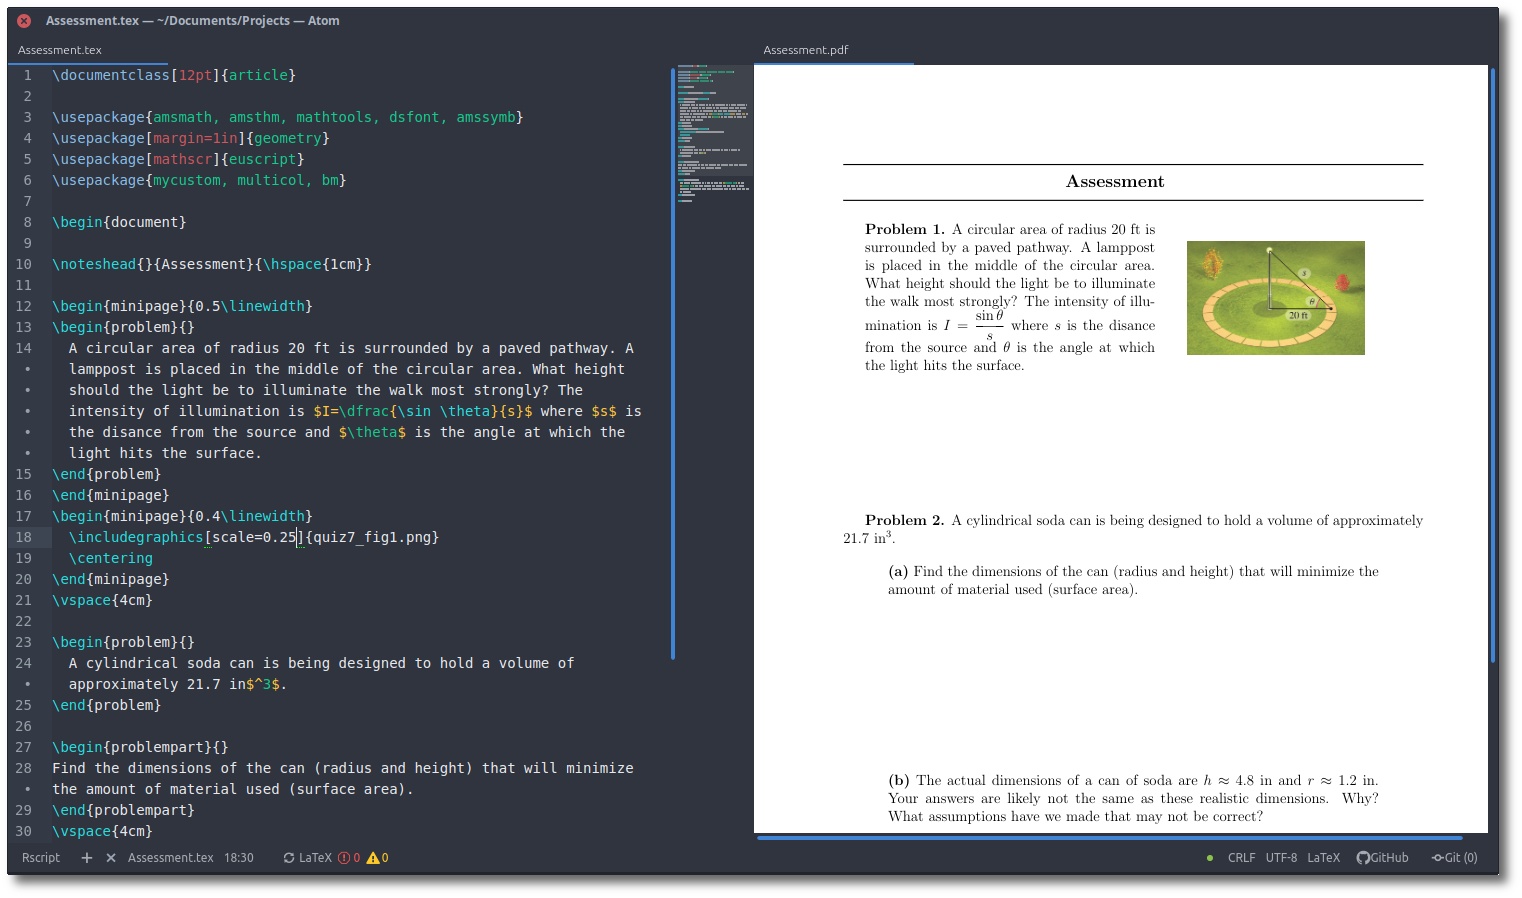
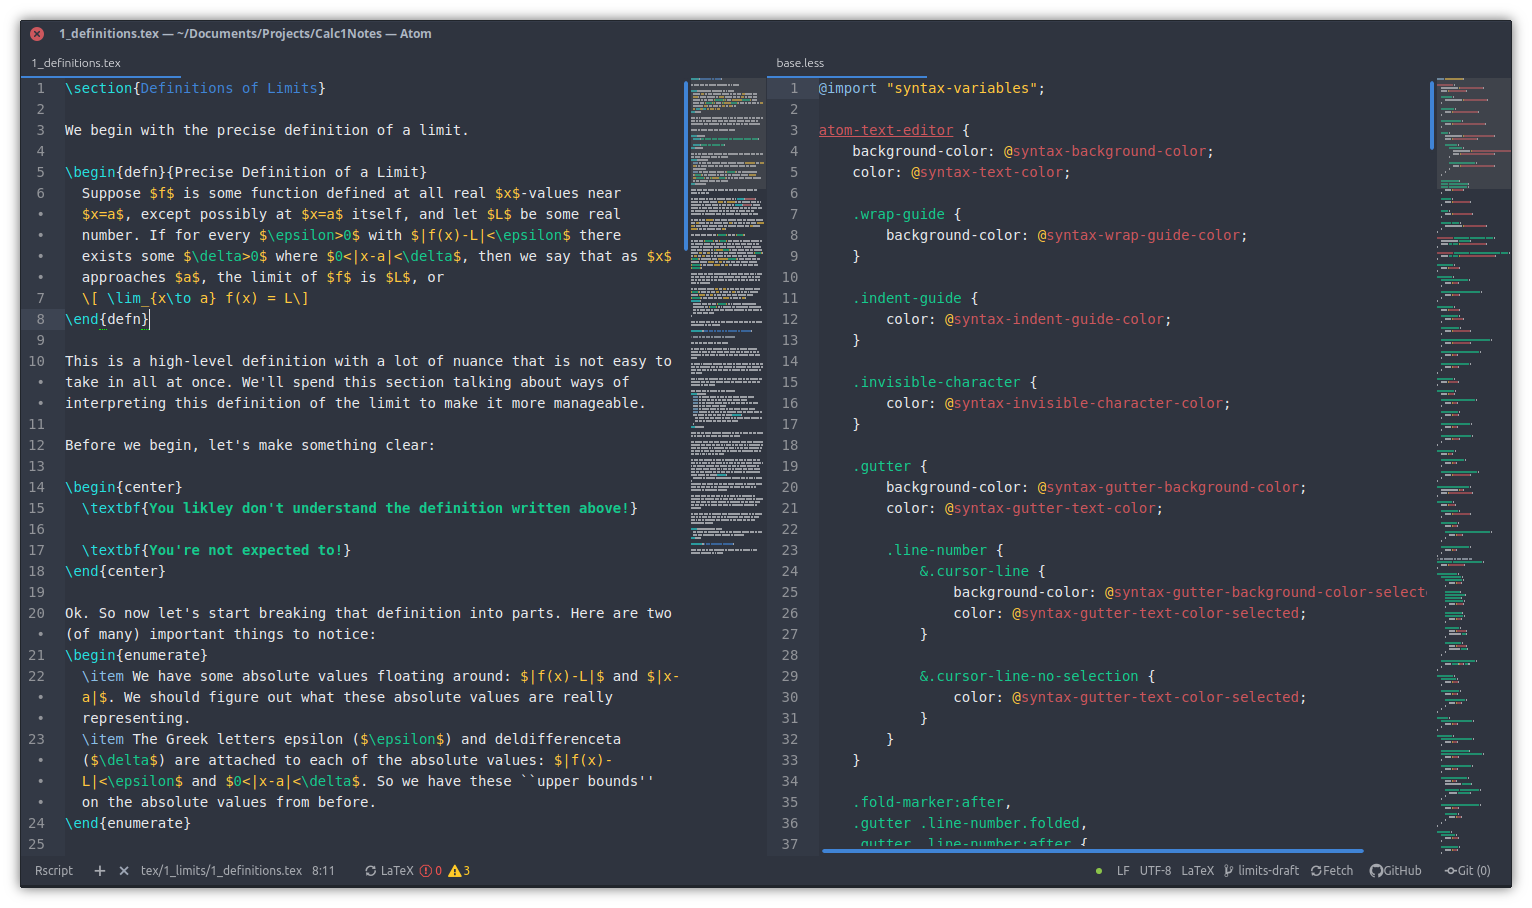
Updated colors, added installation.

diff --git a/styles/base.less b/styles/base.less
@@ -70,15 +70,15 @@ atom-text-editor .search-results .syntax--marker.current-result .region {
     }
 
     &.syntax--other.syntax--inherited-class {
-        color: @orange;
+        color: @yellow;
     }
 }
 
 .syntax--keyword {
-    color: @softblue;
+    color: @light-blue;
 
     &.syntax--control {
-        color: @softblue;
+        color: @light-blue;
     }
 
     &.syntax--operator {
@@ -99,7 +99,7 @@ atom-text-editor .search-results .syntax--marker.current-result .region {
 }
 
 .syntax--storage {
-    color: @purple;
+    color: @light-red;
 }
 
 .syntax--constant {
@@ -118,7 +118,7 @@ atom-text-editor .search-results .syntax--marker.current-result .region {
     }
 
     &.syntax--other.syntax--symbol {
-        color: @orange;
+        color: @yellow;
     }
 }
 
@@ -140,7 +140,7 @@ atom-text-editor .search-results .syntax--marker.current-result .region {
 }
 
 .syntax--string {
-    color: @orange;
+    color: @yellow;
 
     .syntax--embedded {
         color: @syntax-text-color;
@@ -166,14 +166,14 @@ atom-text-editor .search-results .syntax--marker.current-result .region {
 .syntax--punctuation {
     &.syntax--definition {
         &.syntax--comment {
-            color: @light-gray;
+            color: @gray;
         }
 
         &.syntax--array,
         &.syntax--parameters,
         &.syntax--string,
         &.syntax--variable {
-            color: @orange;
+            color: @yellow;
         }
 
         &.syntax--heading,
@@ -182,12 +182,12 @@ atom-text-editor .search-results .syntax--marker.current-result .region {
         }
 
         &.syntax--bold {
-            color: @light-orange;
+            color: @light-red;
             font-weight: bold;
         }
 
         &.syntax--italic {
-            color: @purple;
+            color: @light-red;
             font-style: italic;
         }
     }
@@ -259,7 +259,7 @@ atom-text-editor .search-results .syntax--marker.current-result .region {
     }
 
     &.syntax--selector {
-        color: @purple;
+        color: @light-red;
     }
 
     &.syntax--separator {
@@ -279,7 +279,7 @@ atom-text-editor .search-results .syntax--marker.current-result .region {
     }
 
     &.syntax--changed {
-        color: @purple;
+        color: @light-red;
     }
 
     &.syntax--deleted {
@@ -292,7 +292,7 @@ atom-text-editor .search-results .syntax--marker.current-result .region {
     }
 
     &.syntax--italic {
-        color: @purple;
+        color: @light-red;
         font-style: italic;
     }
 
@@ -301,7 +301,7 @@ atom-text-editor .search-results .syntax--marker.current-result .region {
     }
 
     &.syntax--inserted {
-        color: @orange;
+        color: @yellow;
     }
 
     &.syntax--list {
@@ -313,7 +313,7 @@ atom-text-editor .search-results .syntax--marker.current-result .region {
     }
 
     &.syntax--raw.syntax--inline {
-        color: @orange;
+        color: @yellow;
     }
 }
 
@@ -330,7 +330,7 @@ atom-text-editor .search-results .syntax--marker.current-result .region {
         &.syntax--heading-4,
         &.syntax--heading-5,
         &.syntax--heading-6 {
-            color: @orange;
+            color: @yellow;
         }
 
         &.syntax--marker {
@@ -340,11 +340,11 @@ atom-text-editor .search-results .syntax--marker.current-result .region {
 
     .syntax--link {
         .syntax--entity {
-            color: @orange;
+            color: @yellow;
         }
 
         .syntax--link {
-            color: @softblue;
+            color: @light-blue;
 
             .syntax--begin,
             .syntax--end {
@@ -354,7 +354,7 @@ atom-text-editor .search-results .syntax--marker.current-result .region {
     }
 
     .syntax--table {
-        color: @orange;
+        color: @yellow;
 
         .syntax--border {
             color: @gray;
@@ -364,7 +364,7 @@ atom-text-editor .search-results .syntax--marker.current-result .region {
 
 .syntax--python {
     &.syntax--keyword.syntax--operator.syntax--logical {
-        color: @softblue;
+        color: @light-blue;
     }
 }
 

diff --git a/styles/colors.less b/styles/colors.less
@@ -1,20 +1,16 @@
 // These colors are specific to the theme. Do not use in a package!
 
 @white: #E7E8EB;
-@very-light-gray: #dbe6ec;
+@very-light-gray: #D1D1D1;
 @light-gray: #BAC3CF;
-@gray: #67747c;
+@gray: #75777D;
 @dark-gray: #666A74;
 @very-dark-gray: #2F343F;
 
-// @old-cyan: #0fdebd;
-@cyan: #27dede;
+@cyan: #27DEDE;
 @blue: #4084D6;
-@purple: #ff708e;
+@light-blue: #8ABEE5;
 @green: #16c98d;
 @red: #CC575D;
-@orange: #ffc83f;
-@light-orange: #feef6d;
-
-@softblue: #8abee5;
-@softgreen: #72D5A3;
+@light-red: #D7787D;
+@yellow: #FFC83F;

diff --git a/styles/syntax-variables.less b/styles/syntax-variables.less
@@ -27,5 +27,5 @@
 // For git diff info. i.e. in the gutter
 @syntax-color-renamed: @blue;
 @syntax-color-added: @green;
-@syntax-color-modified: @orange;
+@syntax-color-modified: @yellow;
 @syntax-color-removed: @red;

diff --git a/README.md b/README.md
@@ -1,7 +1,14 @@
-# arcish-syntax
-An arc-ish syntax theme for Atom.
+# arc-ish-syntax
+An arc(ish) syntax theme for Atom.
 
-It follows a similar color scheme, and works well with the [atom-minimal-ui](https://atom.io/themes/atom-minimal-ui) theme, pictured below.
+It follows a similar color scheme as the popular Arc GTK theme, and works well with the [atom-minimal-ui](https://atom.io/themes/atom-minimal-ui) theme, pictured below.
 
 ![](arcish-screenshot.png)
 
+## Installation
+
+This syntax theme should be available to install in Atom under `Settings` -> `Install` -> `Themes` ->`arc-ish-syntax`
+
+Or by terminal
+
+`apm install arc-ish-syntax`
